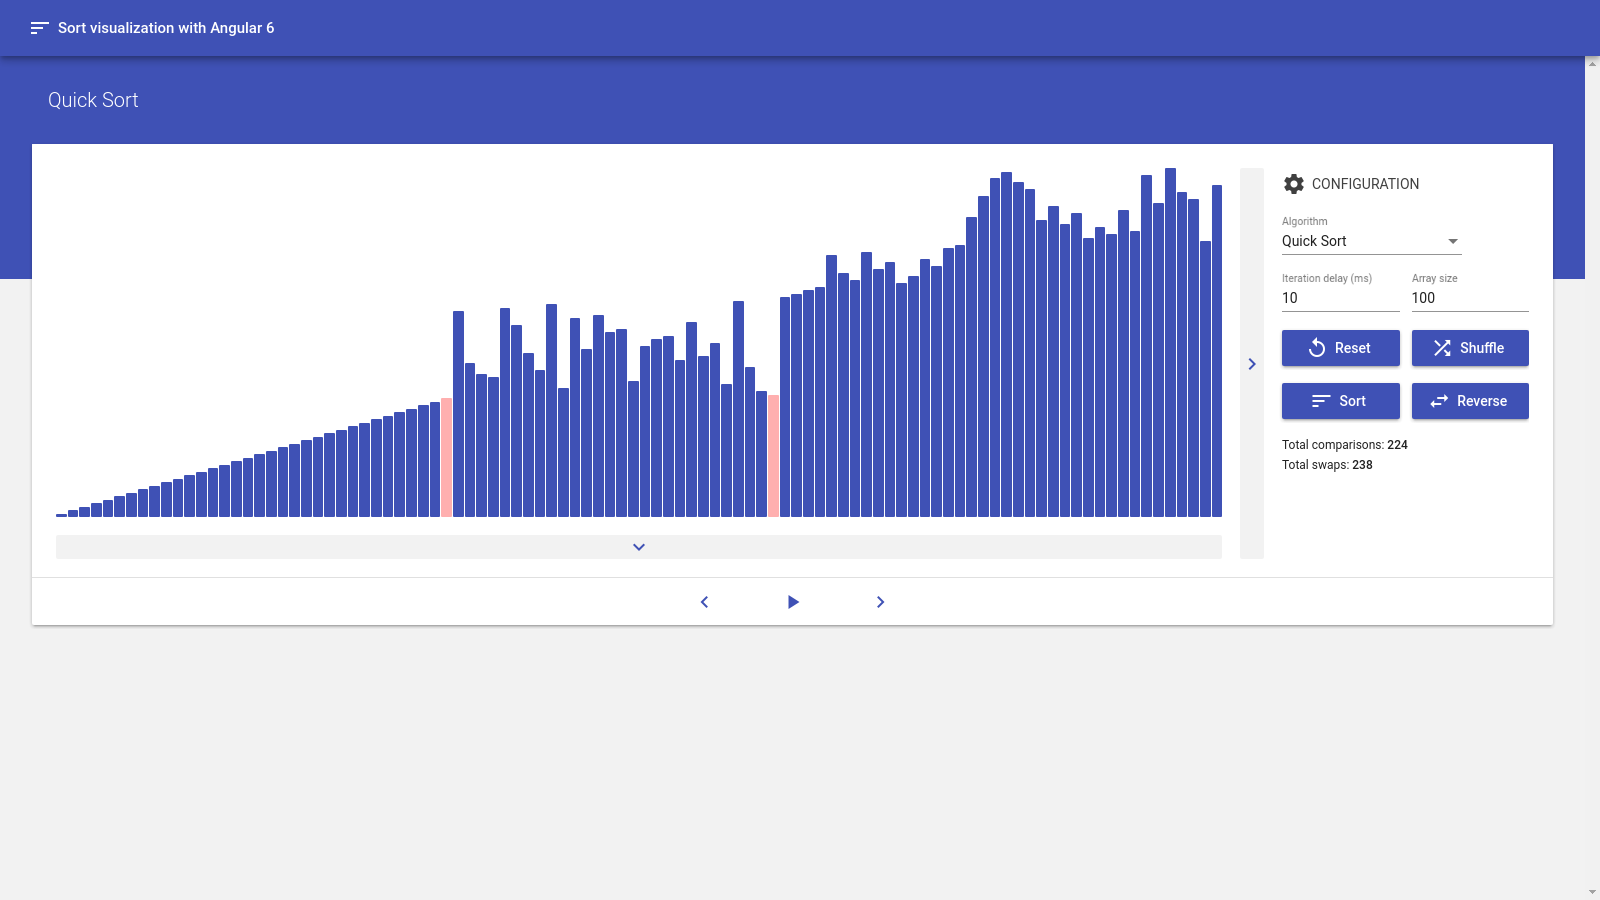
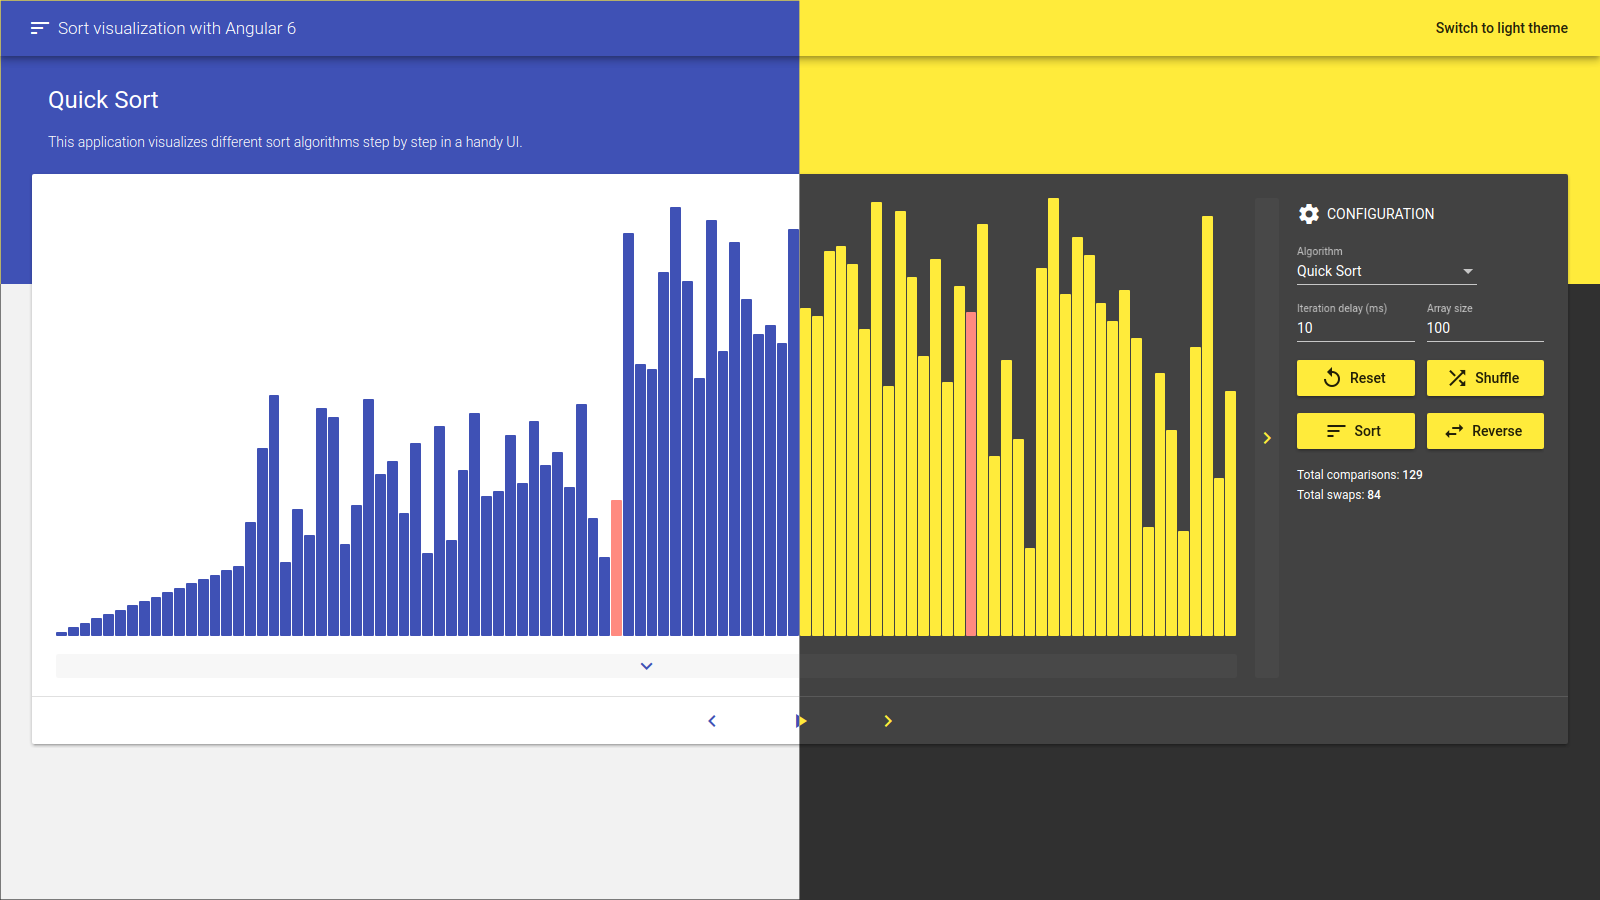
Theme picker module added

diff --git a/src/app/app.component.ts b/src/app/app.component.ts
@@ -1,7 +1,9 @@
-import { Component, OnDestroy, OnInit } from '@angular/core';
+import { Component, Inject, OnDestroy, OnInit, Renderer2 } from '@angular/core';
+import { DOCUMENT } from '@angular/platform-browser';
 import { Subscription } from 'rxjs';
 
 import { AppService } from './shared/app.service';
+import { IS_DEFAULT_THEME_DARK } from './theme-picker';
 
 @Component({
   selector: 'app-root',
@@ -12,17 +14,27 @@ import { AppService } from './shared/app.service';
 export class AppComponent implements OnInit, OnDestroy {
   public title: string;
 
-  private _titleSub: Subscription;
+  private titleSub: Subscription;
 
   constructor(
-    private _appService: AppService,
+    @Inject(DOCUMENT) private doc: Document,
+    private appService: AppService,
+    private renderer: Renderer2,
   ) { }
 
   ngOnInit() {
-    this._appService.appTitle.subscribe((title) => this.title = title);
+    this.appService.appTitle.subscribe((title) => this.title = title);
+    this.onThemeChange(IS_DEFAULT_THEME_DARK);
   }
 
   ngOnDestroy() {
-    this._titleSub.unsubscribe();
+    this.titleSub.unsubscribe();
+  }
+
+  public onThemeChange(isNewThemeDark: boolean) {
+    const classToAdd = isNewThemeDark && 'dark-theme' || 'light-theme';
+    const classToRemove = isNewThemeDark && 'light-theme' || 'dark-theme';
+    this.renderer.addClass(this.doc.body, classToAdd);
+    this.renderer.removeClass(this.doc.body, classToRemove);
   }
 }

diff --git a/src/theme.scss b/src/theme.scss
@@ -1,0 +1,34 @@
+@import '~@angular/material/theming';
+
+@import 'app/_app.component.scss';
+@import 'app/sort/_sort.component.scss';
+@import 'app/sort/bar/_bar.component.scss';
+
+@include mat-core();
+
+// Default
+$app-warn:    mat-palette($mat-red);
+
+// Defining light theme
+$app-light-primary: mat-palette($mat-indigo);
+$app-light-accent:  mat-palette($mat-purple, A200, A100, A400);
+$app-light-theme:   mat-light-theme($app-light-primary, $app-light-accent, $app-warn);
+
+// Defining dark theme
+$app-dark-primary: mat-palette($mat-yellow);
+$app-dark-accent:  mat-palette($mat-orange, A200, A100, A400);
+$app-dark-theme:   mat-dark-theme($app-dark-primary, $app-dark-accent, $app-warn);
+
+.light-theme {
+  @include angular-material-theme($app-light-theme);
+  @include app-light-base($app-light-theme);
+  @include app-light-resize($app-light-theme);
+  @include app-any-bar($app-light-theme);
+}
+
+.dark-theme {
+  @include angular-material-theme($app-dark-theme);
+  @include app-dark-base($app-dark-theme);
+  @include app-dark-resize($app-dark-theme);
+  @include app-any-bar($app-dark-theme);
+}

diff --git a/src/index.html b/src/index.html
@@ -12,6 +12,22 @@
   <link href="https://fonts.googleapis.com/css?family=Roboto:300,400,500" rel="stylesheet">
 </head>
 <body>
-  <app-root></app-root>
+  <noscript>You must have javascript enabled in your browser to use this application.</noscript>
+  <app-root>
+    <style>
+      .loading-container {
+        align-items: center;
+        background: #fafafa;
+        color: rgba(0, 0, 0, 0.75);
+        display: flex;
+        font-family: "Roboto", Helvetica, sans-serif;
+        font-size: 20px;
+        font-weight: 300;
+        height: 100vh;
+        justify-content: center;
+      }
+    </style>
+    <div class="loading-container">Application is loading...</div>
+  </app-root>
 </body>
 </html>

diff --git a/src/app/theme-picker/theme-picker.component.spec.ts b/src/app/theme-picker/theme-picker.component.spec.ts
@@ -1,0 +1,25 @@
+import { async, ComponentFixture, TestBed } from '@angular/core/testing';
+
+import { ThemePickerComponent } from './theme-picker.component';
+
+describe('ThemePickerComponent', () => {
+  let component: ThemePickerComponent;
+  let fixture: ComponentFixture<ThemePickerComponent>;
+
+  beforeEach(async(() => {
+    TestBed.configureTestingModule({
+      declarations: [ ThemePickerComponent ]
+    })
+    .compileComponents();
+  }));
+
+  beforeEach(() => {
+    fixture = TestBed.createComponent(ThemePickerComponent);
+    component = fixture.componentInstance;
+    fixture.detectChanges();
+  });
+
+  it('should create', () => {
+    expect(component).toBeTruthy();
+  });
+});

diff --git a/src/app/app.component.scss b/src/app/app.component.scss
@@ -14,7 +14,12 @@
   }
 
   span {
-    font-size: 15px;
+    font-size: 17px;
+    font-weight: 300;
+  }
+
+  .spacer {
+    flex-grow: 1;
   }
 }
 
@@ -28,24 +33,15 @@
   overflow-y: scroll;
 
   .page-header {
-    background-color: #3f51b5;
+    font-weight: 300;
+    height: 200px;
     padding-left: 48px;
-    height: 223px;
-
-    h1 {
-      font-weight: 300;
-      margin: 0;
-      padding-top: 28px;
-      padding-bottom: 28px;
-      font-size: 20px;
-      color: #fff;
-    }
+    padding-top: 28px;
   }
 
   .page-body {
-    background-color: #fafafa;
     margin-left: 32px;
     margin-right: 32px;
-    margin-top: -135px;
+    margin-top: -110px;
   }
 }

diff --git a/src/app/sort/_sort.component.scss b/src/app/sort/_sort.component.scss
@@ -1,0 +1,33 @@
+@import '~@angular/material/theming';
+
+@mixin app-light-resize($theme) {
+  .resize-button {
+    background-color: rgba(0, 0, 0, 0.03);
+  }
+
+  .resize-button:hover {
+    background-color: rgba(0, 0, 0, 0.06);
+  }
+
+  .resize-button:active {
+    background-color: rgba(0, 0, 0, 0.15);
+  }
+
+  .heading {
+    color: rgba(0,0,0,.75);
+  }
+}
+
+@mixin app-dark-resize($theme) {
+  .resize-button {
+    background-color: rgba(255, 255, 255, 0.03);
+  }
+
+  .resize-button:hover {
+    background-color: rgba(255, 255, 255, 0.06);
+  }
+
+  .resize-button:active {
+    background-color: rgba(255, 255, 255, 0.15);
+  }
+}

diff --git a/src/app/app.module.ts b/src/app/app.module.ts
@@ -4,7 +4,8 @@ import { MatCardModule, MatIconModule, MatToolbarModule } from '@angular/materia
 import { NgModule } from '@angular/core';
 
 import { AppComponent } from './app.component';
-import { SortModule } from './sort/sort.module';
+import { SortModule } from './sort';
+import { ThemePickerModule } from './theme-picker';
 
 @NgModule({
   declarations: [
@@ -19,8 +20,11 @@ import { SortModule } from './sort/sort.module';
     MatToolbarModule,
 
     SortModule,
+    ThemePickerModule,
   ],
   providers: [],
-  bootstrap: [AppComponent]
+  bootstrap: [
+    AppComponent,
+  ],
 })
 export class AppModule { }

diff --git a/src/app/theme-picker/theme-picker.component.ts b/src/app/theme-picker/theme-picker.component.ts
@@ -1,0 +1,23 @@
+import { Component, EventEmitter, OnInit, Output } from '@angular/core';
+
+export const IS_DEFAULT_THEME_DARK = false;
+
+@Component({
+  selector: 'app-theme-picker',
+  template: `<button mat-button (click)="toggleTheme()">Switch to {{ isDark && 'light' || 'dark' }} theme</button>`,
+})
+export class ThemePickerComponent implements OnInit {
+
+  @Output() onChange = new EventEmitter<boolean>();
+
+  public isDark = IS_DEFAULT_THEME_DARK;
+
+  constructor() { }
+
+  ngOnInit() { }
+
+  public toggleTheme(): void {
+    this.isDark = !this.isDark;
+    this.onChange.emit(this.isDark);
+  }
+}

diff --git a/src/app/sort/bar/_bar.component.scss b/src/app/sort/bar/_bar.component.scss
@@ -1,0 +1,26 @@
+@import '~@angular/material/theming';
+
+@mixin app-any-bar($theme) {
+  $primary: map-get($theme, primary);
+  $accent: map-get($theme, accent);
+  $warn: map-get($theme, warn);
+  $success: mat-palette($mat-green);
+
+  app-bar {
+    background-color: mat-color($primary);
+  }
+
+  app-bar.state-1 {
+    background-color: mat-color($primary, A100);
+  }
+  app-bar.state-2,
+  app-bar.state-4 {
+    background-color: mat-color($warn, A100);
+  }
+  app-bar.state-3 {
+    background-color: mat-color($success, A200);
+  }
+  app-bar.state-5 {
+    background-color: mat-color($accent);
+  }
+}

diff --git a/src/app/sort/sort.component.scss b/src/app/sort/sort.component.scss
@@ -5,7 +5,6 @@
 h2.heading {
   display: flex;
   align-items: center;
-  color: rgba(0,0,0,.75);
 
   .mat-icon {
     margin-right: 6px;
@@ -18,19 +17,11 @@ h2.heading {
 }
 
 .resize-button {
-  background-color: #f2f2f2;
   border-radius: 2px;
   display: flex;
   transition: background-color .1s ease-out;
   user-select: none;
   cursor: pointer;
-  color: #3f51b5;
-}
-.resize-button:hover {
-  background-color: #ececec;
-}
-.resize-button:active {
-  background-color: #cacaca;
 }
 
 .body {

diff --git a/src/app/app.component.html b/src/app/app.component.html
@@ -1,11 +1,16 @@
 <mat-toolbar color="primary" class="mat-elevation-z6">
   <mat-icon>sort</mat-icon>
   <span>Sort visualization with Angular 6</span>
+
+  <div class="spacer"></div>
+
+  <app-theme-picker (onChange)="onThemeChange($event)"></app-theme-picker>
 </mat-toolbar>
 
 <div class="container">
   <div class="page-header">
     <h1>{{ title }}</h1>
+    <p>This application visualizes different sort algorithms step by step in a handy UI.</p>
   </div>
 
   <div class="page-body">

diff --git a/src/app/sort/sort.component.html b/src/app/sort/sort.component.html
@@ -11,7 +11,7 @@
     <div class="body-right">
       <div class="resize-button" [class.isVisible]="isSettingsBlockVisible"
         (click)="isSettingsBlockVisible = !isSettingsBlockVisible">
-        <mat-icon>keyboard_arrow_left</mat-icon>
+        <mat-icon color="primary">keyboard_arrow_left</mat-icon>
       </div>
 
       <div class="settings-block-wrapper" *ngIf="isSettingsBlockVisible"
